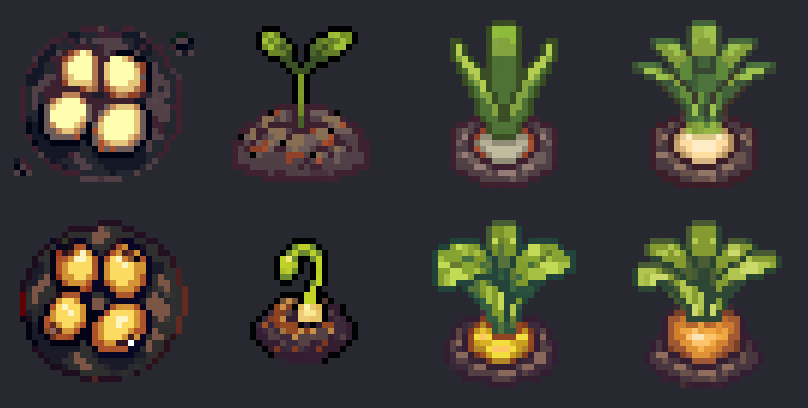
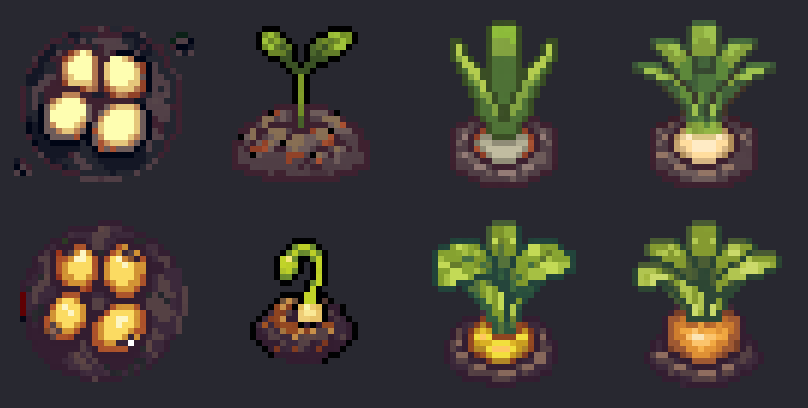
Garlic and onion: every stage's soil matched to the growing stage
Claude-Session: https://claude.ai/code/session_01DZoCGNTKvTqdtWPybs567b

Changed region(s): [[0.0309, 0.5588, 0.2475, 0.9412]]

diff --git a/tools/art/crop_match.py b/tools/art/crop_match.py
@@ -10,7 +10,7 @@ def _classes(a: np.ndarray, soil_from_row: int = 20) -> dict:
     luma = 0.299 * r + 0.587 * g + 0.114 * b
     low = np.arange(a.shape[0])[:, None] >= soil_from_row
     leaf = alpha & (g > r + 12) & (g > b + 12)
-    soil = alpha & ~leaf & low & (luma < 110) & (r >= g) & (r < 170)
+    soil = alpha & ~leaf & low & (luma < 110) & (r >= g) & (r < 170) & (r - b < 80)
     marks = alpha & ((luma < 40) | ((r > 150) & (g < 80) & (b < 80)))
     body = alpha & ~leaf & ~soil & ~marks
     return {"soil": soil, "leaf": leaf, "body": body}
